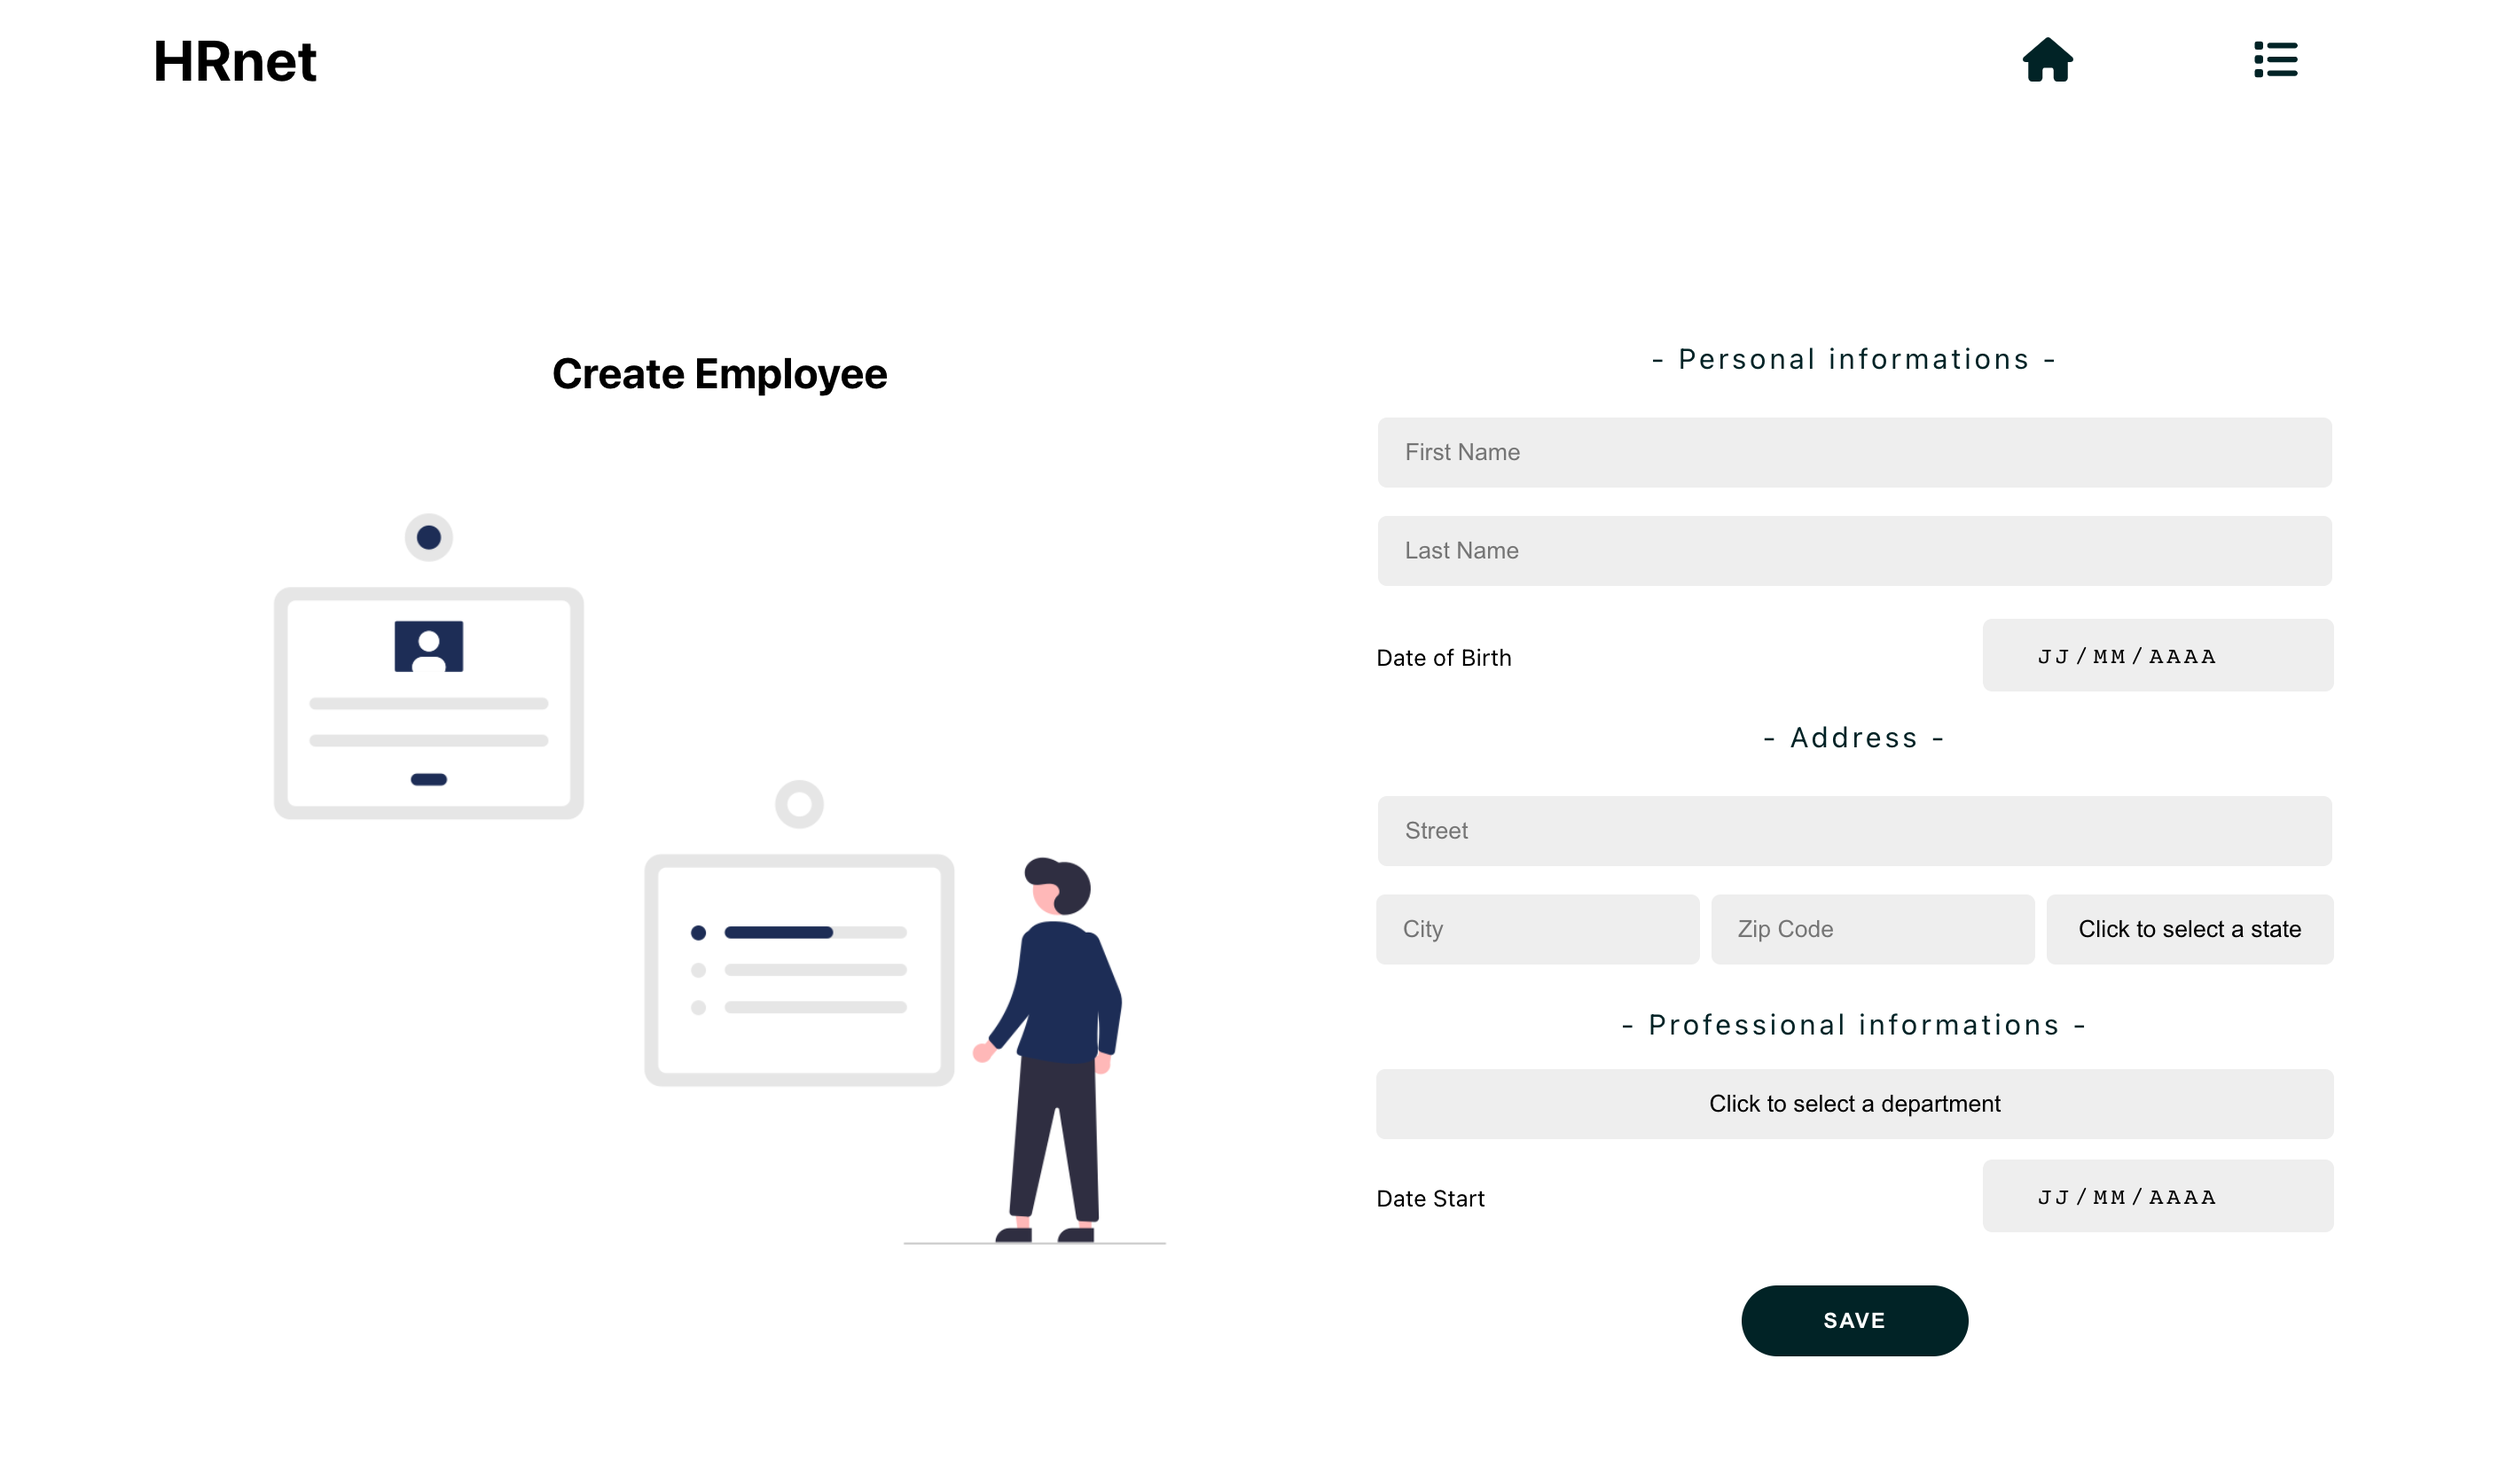
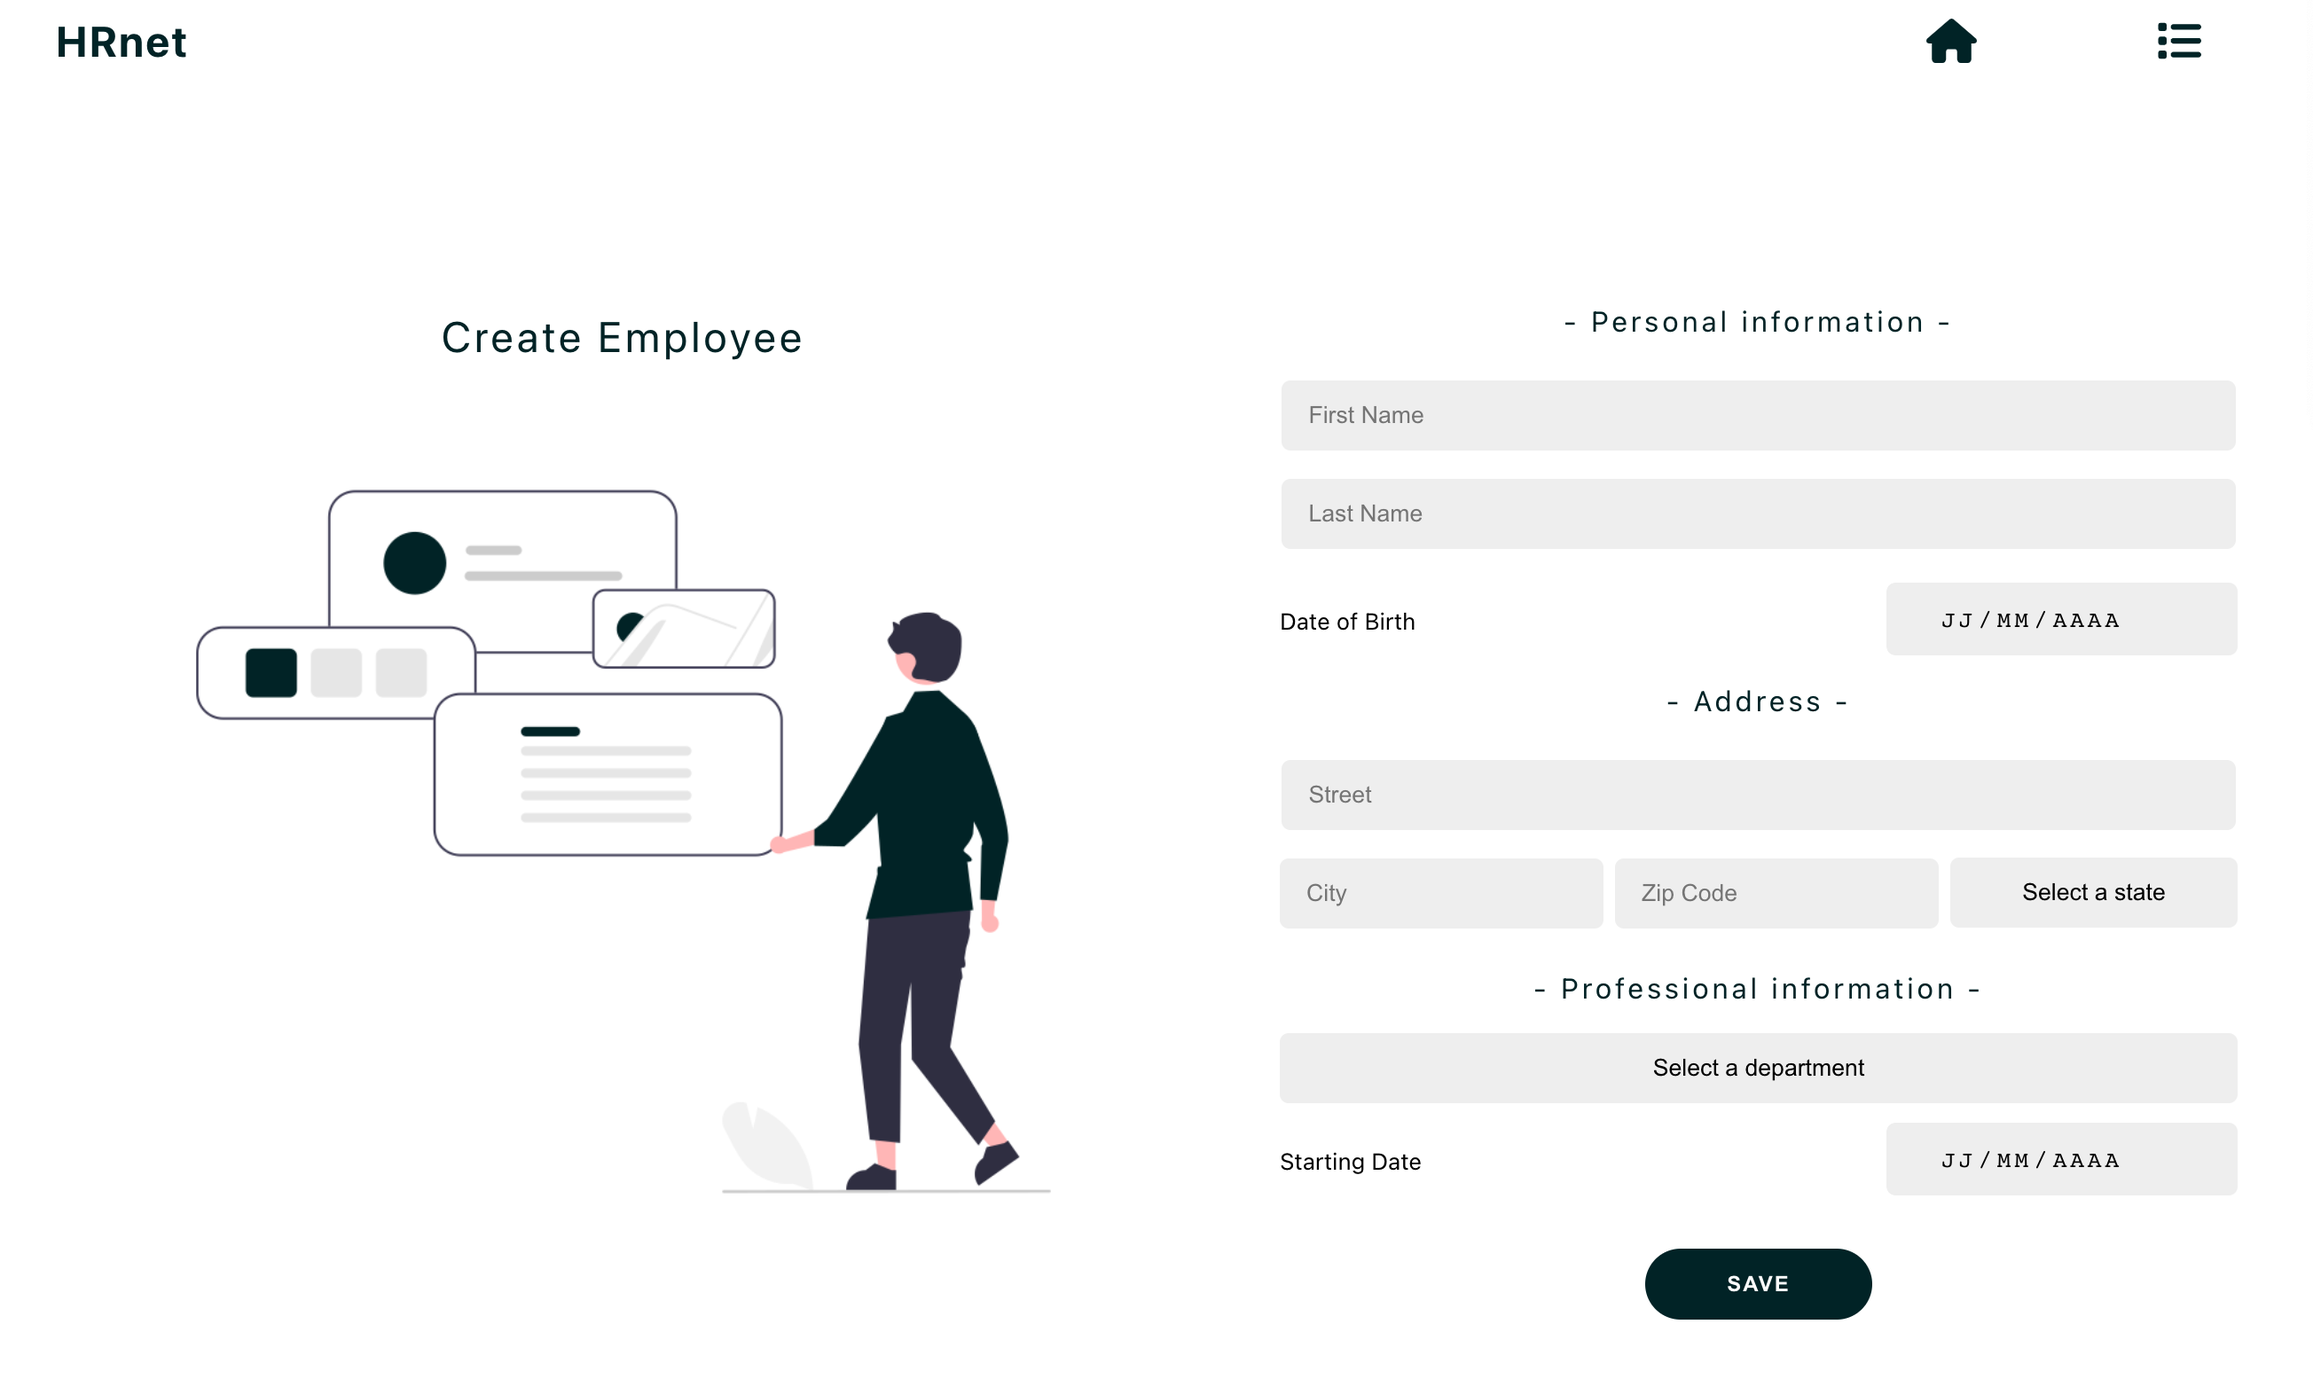
review custom

diff --git a/src/components/Presentation.js b/src/components/Presentation.js
@@ -1,5 +1,5 @@
 // assets
-import PresentationImg from '../assets/img/presentation.png';
+import PresentationImg from '../assets/img/presentation2.png';
 // custom 
 import '../custom/components/presentation.scss';
 

diff --git a/src/custom/components/presentation.scss b/src/custom/components/presentation.scss
@@ -3,6 +3,9 @@
 }
 
 .presentation-title {
+    letter-spacing: 2px;
+    font-weight: normal;
+    color: #012326;
     text-align: center;
 }
 

diff --git a/README.md b/README.md
@@ -33,6 +33,8 @@ Your server should now be running at http://locahost:3000
 
 ![screen n°2](img/img2.png)
 
+![screen n°3](img/img3.png)
+
 This project uses a simple and reusable Datepicker component.
 
 - **documentation** : https://www.npmjs.com/package/datepickerplugin
@@ -49,3 +51,5 @@ Or via **yarn**
 ```bash
 yarn add datepickerplugin
 ```
+
+<img src="img/img4.png" alt="datepicker" width="350"/>
